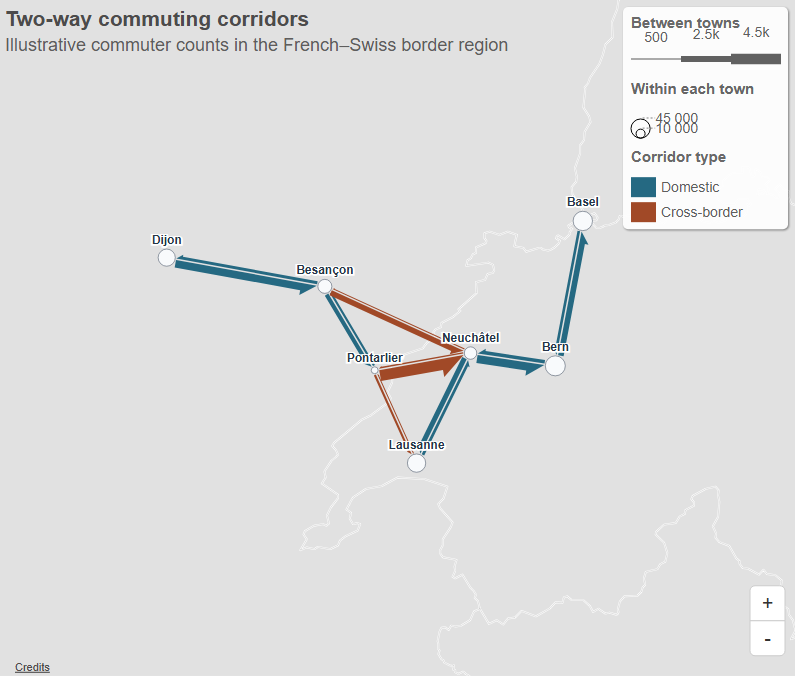
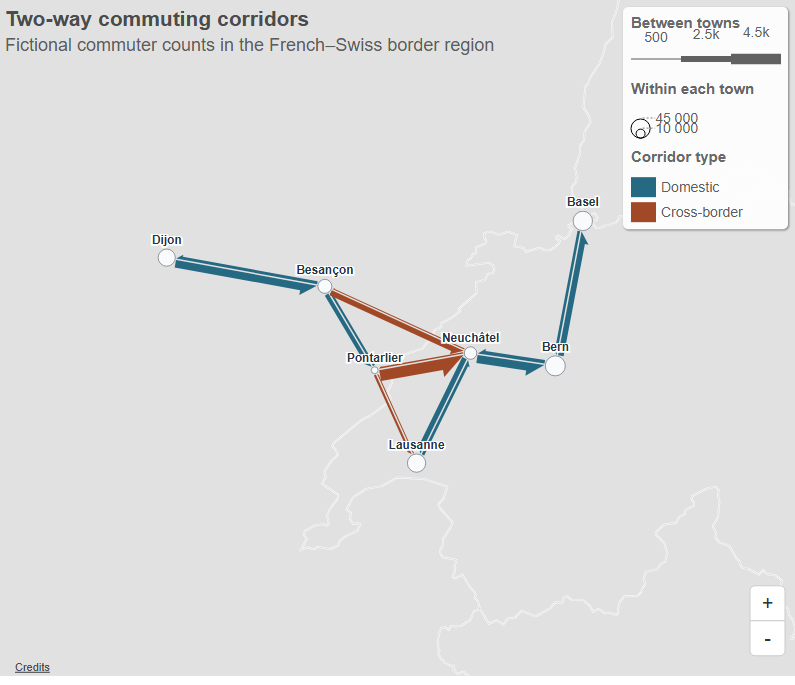
Add INSEE commuting flows and label fictional demo data
Refs #183

Changed region(s): [[0.0, 0.0307, 0.634, 0.092]]

diff --git a/examples/flow/commuting-corridors-insee.html b/examples/flow/commuting-corridors-insee.html
@@ -1,0 +1,118 @@
+<!doctype html>
+<html lang="en">
+    <head>
+        <meta charset="UTF-8" />
+        <meta name="viewport" content="width=device-width, initial-scale=1.0" />
+        <title>Commuting between Dijon, Dole and Besançon</title>
+        <style>
+            .em-node-circles .em-node-circle {
+                fill: #f8fafc;
+                stroke: #334155;
+            }
+
+            .commune-label {
+                font:
+                    600 14px system-ui,
+                    sans-serif;
+                fill: #253548;
+                paint-order: stroke;
+                stroke: #fff;
+                stroke-width: 3px;
+                pointer-events: none;
+            }
+
+            .em-flow-color-legend {
+                display: none;
+            }
+
+            .source {
+                font:
+                    0.875rem system-ui,
+                    sans-serif;
+            }
+        </style>
+    </head>
+    <body>
+        <svg id="map"></svg>
+        <p class="source">
+            Source:
+            <a href="https://www.insee.fr/fr/statistiques/8582949">INSEE, 2022 population census, home-to-work flows</a>
+            . Estimates are rounded to the nearest person. INSEE treats flows below 200 as approximate.
+        </p>
+        <script src="../../build/eurostatmap.js"></script>
+        <script>
+            // INSEE 2022 CSV, NBFLUX_C22_ACTOCC15P. Node IDs are INSEE commune codes.
+            // Same-commune residence/workplace rows supply the circle sizes.
+            const communes = [
+                { id: '21231', name: 'Dijon', lon: 5.04, lat: 47.32, local: 48880 },
+                { id: '39198', name: 'Dole', lon: 5.49, lat: 47.09, local: 5485 },
+                { id: '25056', name: 'Besançon', lon: 6.02, lat: 47.24, local: 36825 },
+            ]
+            // Residence, workplace, and a count for each direction.
+            const corridors = [
+                ['21231', '39198', 180, 340],
+                ['21231', '25056', 242, 215],
+                ['25056', '39198', 268, 325],
+            ]
+
+            const map = eurostatmap.map('flow').width(795).height(540).responsive(true).nutsLevel(3).insets(false).scale('03M')
+            const [x, y] = eurostatmap.projectToMap(map, 5.54, 47.25)
+            const nodes = communes.map(({ id, name, lon, lat }) => {
+                const [x, y] = eurostatmap.projectToMap(map, lon, lat)
+                return { id, name, x, y }
+            })
+            const links = corridors.flatMap(([a, b, forward, reverse]) => [
+                { source: a, target: b, value: forward },
+                { source: b, target: a, value: reverse },
+            ])
+            for (const { id, local } of communes) links.push({ source: id, target: id, value: local })
+
+            const communeNames = new Map(communes.map(({ id, name }) => [id, name]))
+            const counts = new Intl.NumberFormat('en')
+            const flowValues = [100, 200, 340]
+
+            map.title('Commuting between Dijon, Dole and Besançon')
+                .subtitle('From commune of residence to commune of work, 2022')
+                .position({ x, y, z: 155 })
+                .drawCoastalMargin(false)
+                .flowGraph({ nodes, links })
+                .flowSettings({
+                    lineType: 'straight',
+                    bidirectionalLayout: 'parallel',
+                    arrows: true,
+                    color: '#256982',
+                    opacity: 1,
+                    maxWidth: 8,
+                    nodes: true,
+                    nodeType: 'circle',
+                    nodeSizeBy: 'internal',
+                })
+                .legend({
+                    position: 'top right',
+                    flowWidthLegend: {
+                        title: 'Between communes',
+                        titlePadding: 38,
+                        values: flowValues,
+                        labels: flowValues.map((n) => counts.format(n)),
+                    },
+                    nodeSizeLegend: { title: 'Within each commune', values: [48880, 10000] },
+                })
+                .onBuild((map) => {
+                    map.svg()
+                        .selectAll('.em-node-circle-group')
+                        .append('text')
+                        .attr('class', 'commune-label')
+                        .attr('text-anchor', 'middle')
+                        .attr('y', function () {
+                            return -Number(this.parentNode.querySelector('circle').getAttribute('r')) - 5
+                        })
+                        .text(function () {
+                            return communeNames.get(this.parentNode.getAttribute('data-id'))
+                        })
+                })
+
+            map.statData().unitText('people')
+            map.build()
+        </script>
+    </body>
+</html>

diff --git a/examples/flow/commuting-corridors.html b/examples/flow/commuting-corridors.html
@@ -24,6 +24,10 @@
     </head>
     <body>
         <svg id="map"></svg>
+        <p>
+            The towns are real, but the commuter counts are fictional.
+            <a href="commuting-corridors-insee.html">See the example using INSEE census data</a>.
+        </p>
         <script src="../../build/eurostatmap.js"></script>
         <script>
             // Illustrative commuter counts. Town coordinates are real; the flows are synthetic.
@@ -66,7 +70,7 @@
             const crossBorder = '#a14927'
 
             map.title('Two-way commuting corridors')
-                .subtitle('Illustrative commuter counts in the French–Swiss border region')
+                .subtitle('Fictional commuter counts in the French–Swiss border region')
                 .position({ x, y, z: 465 })
                 .drawCoastalMargin(false)
                 .flowGraph({ nodes, links })

diff --git a/examples/scripts/example-manifest.js b/examples/scripts/example-manifest.js
@@ -39,6 +39,7 @@
         'composition/composition.html',
         'coxcomb/coxcomb.html',
         'dot-density/population-dot-density.html',
+        'flow/commuting-corridors-insee.html',
         'flow/commuting-corridors.html',
         'flow/flights/flights.html',
         'flow/flowmap.html',
